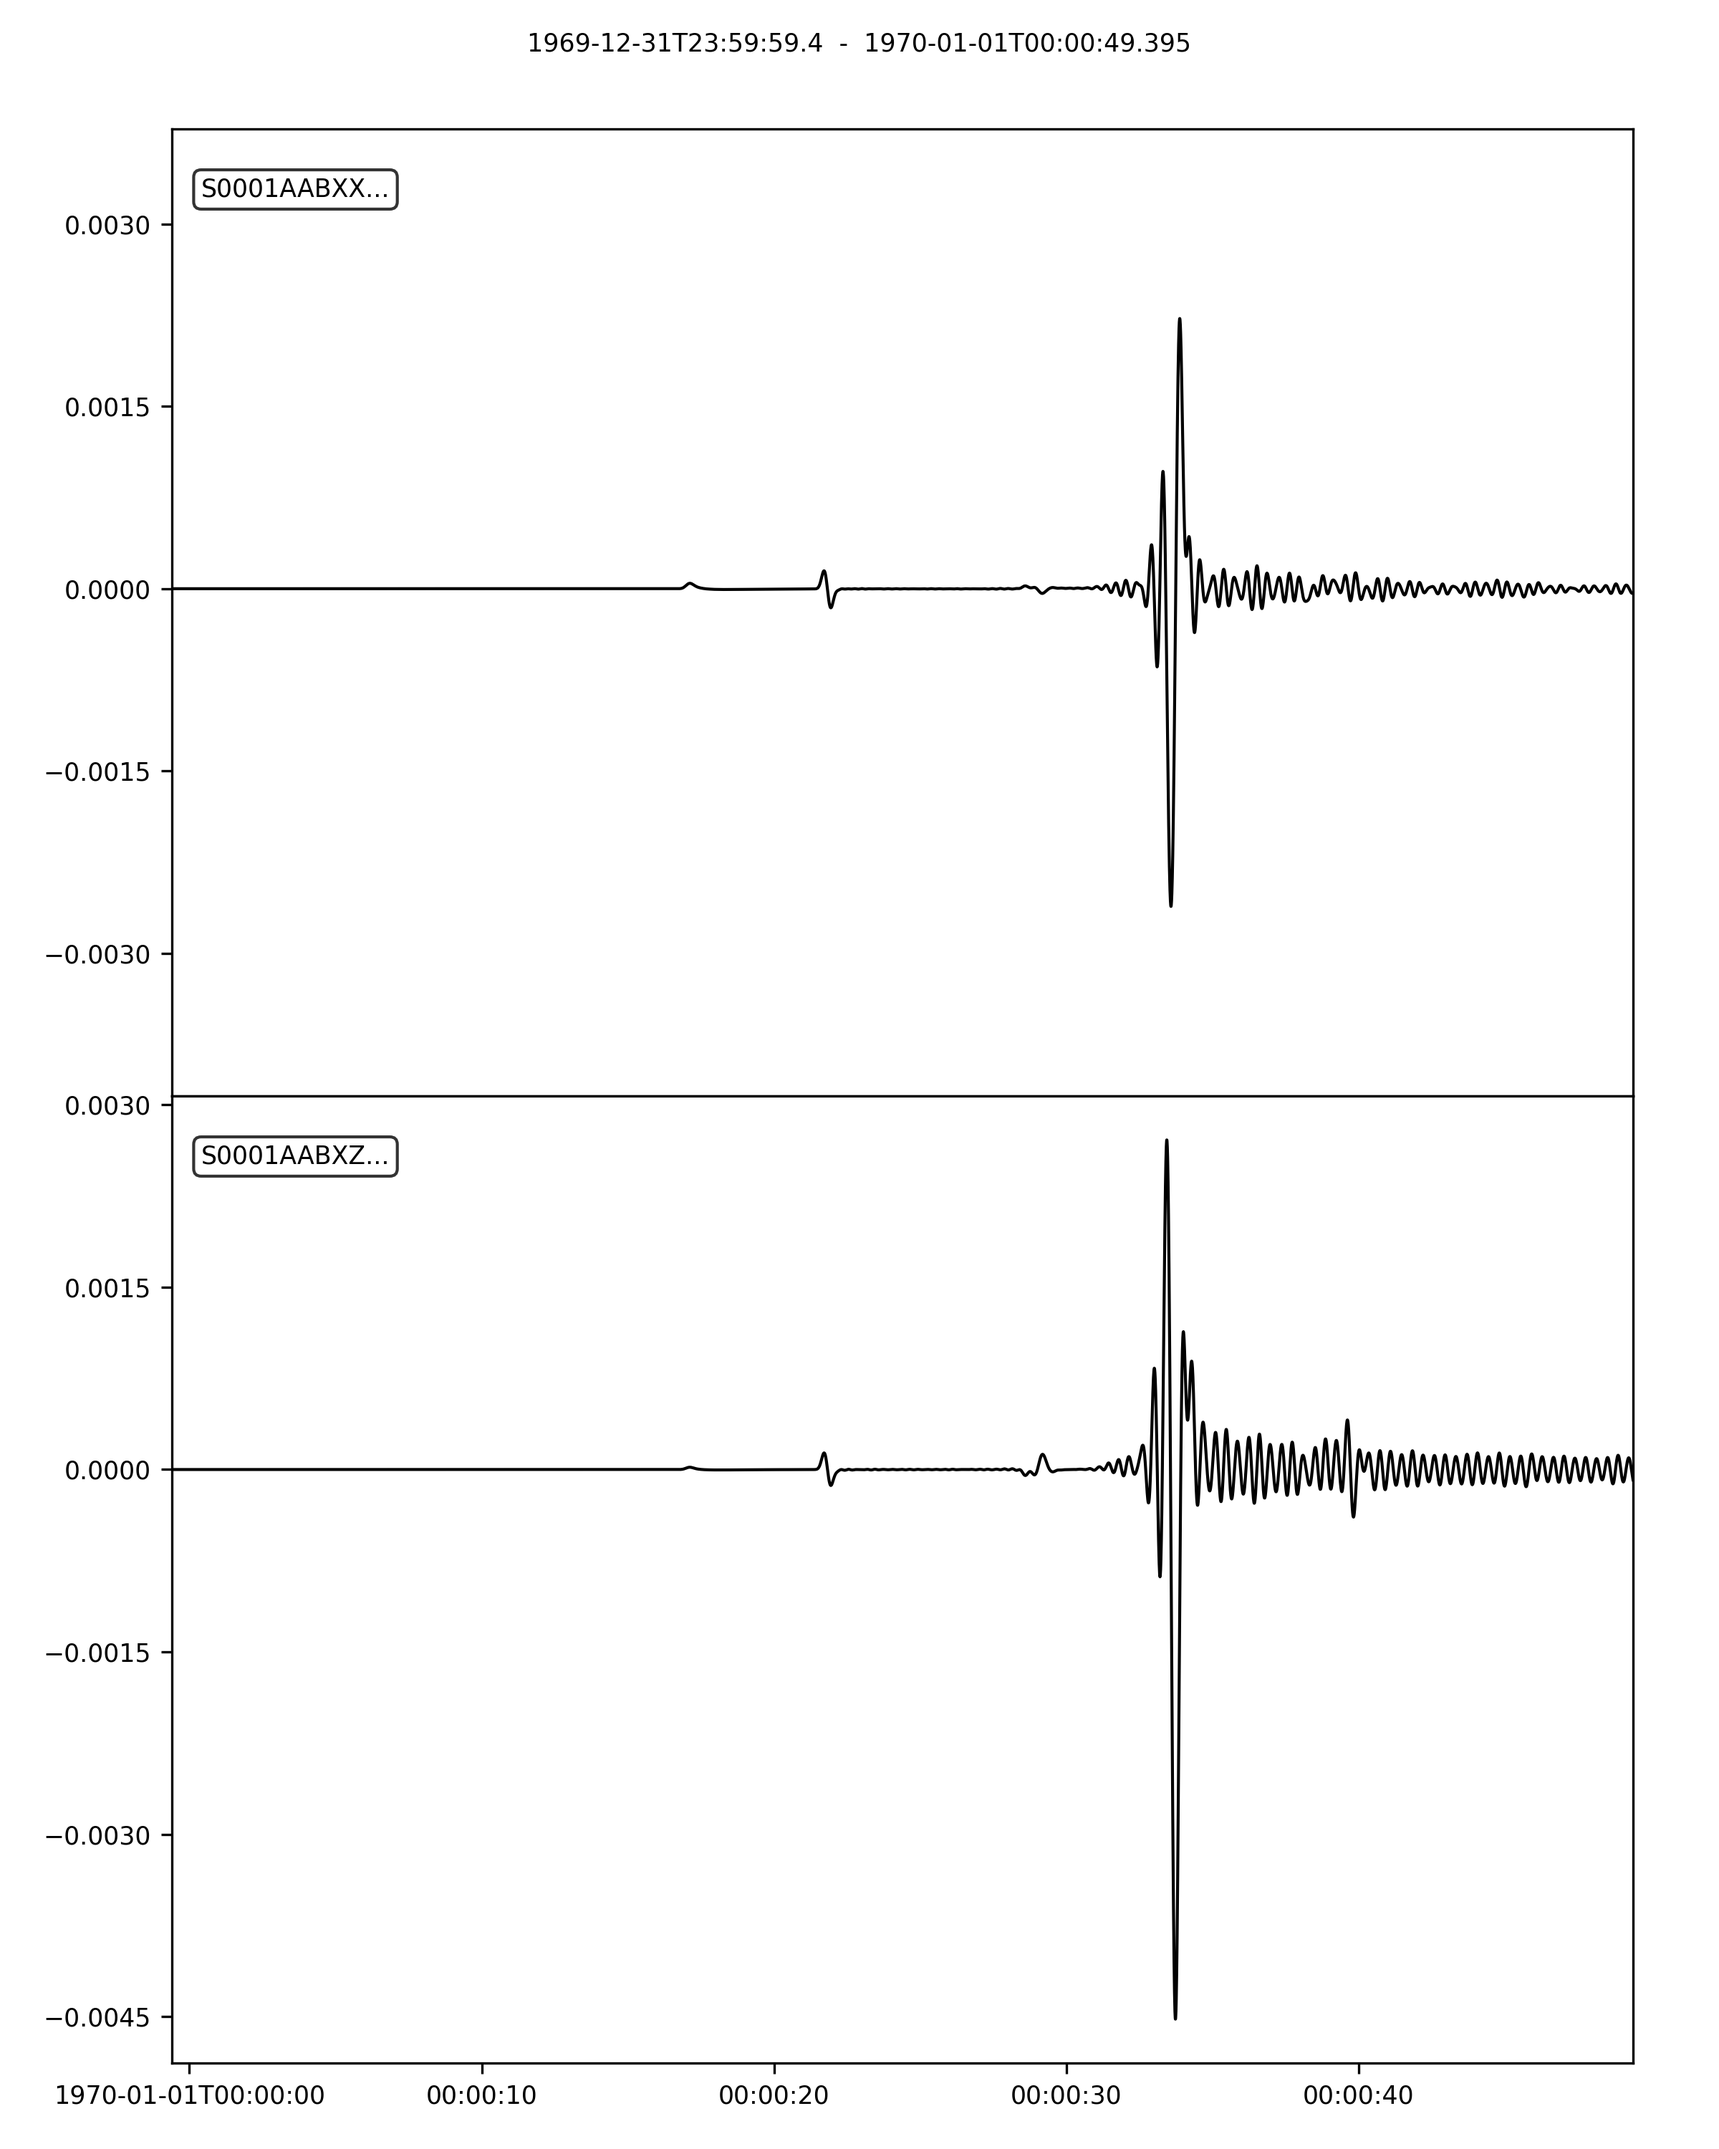
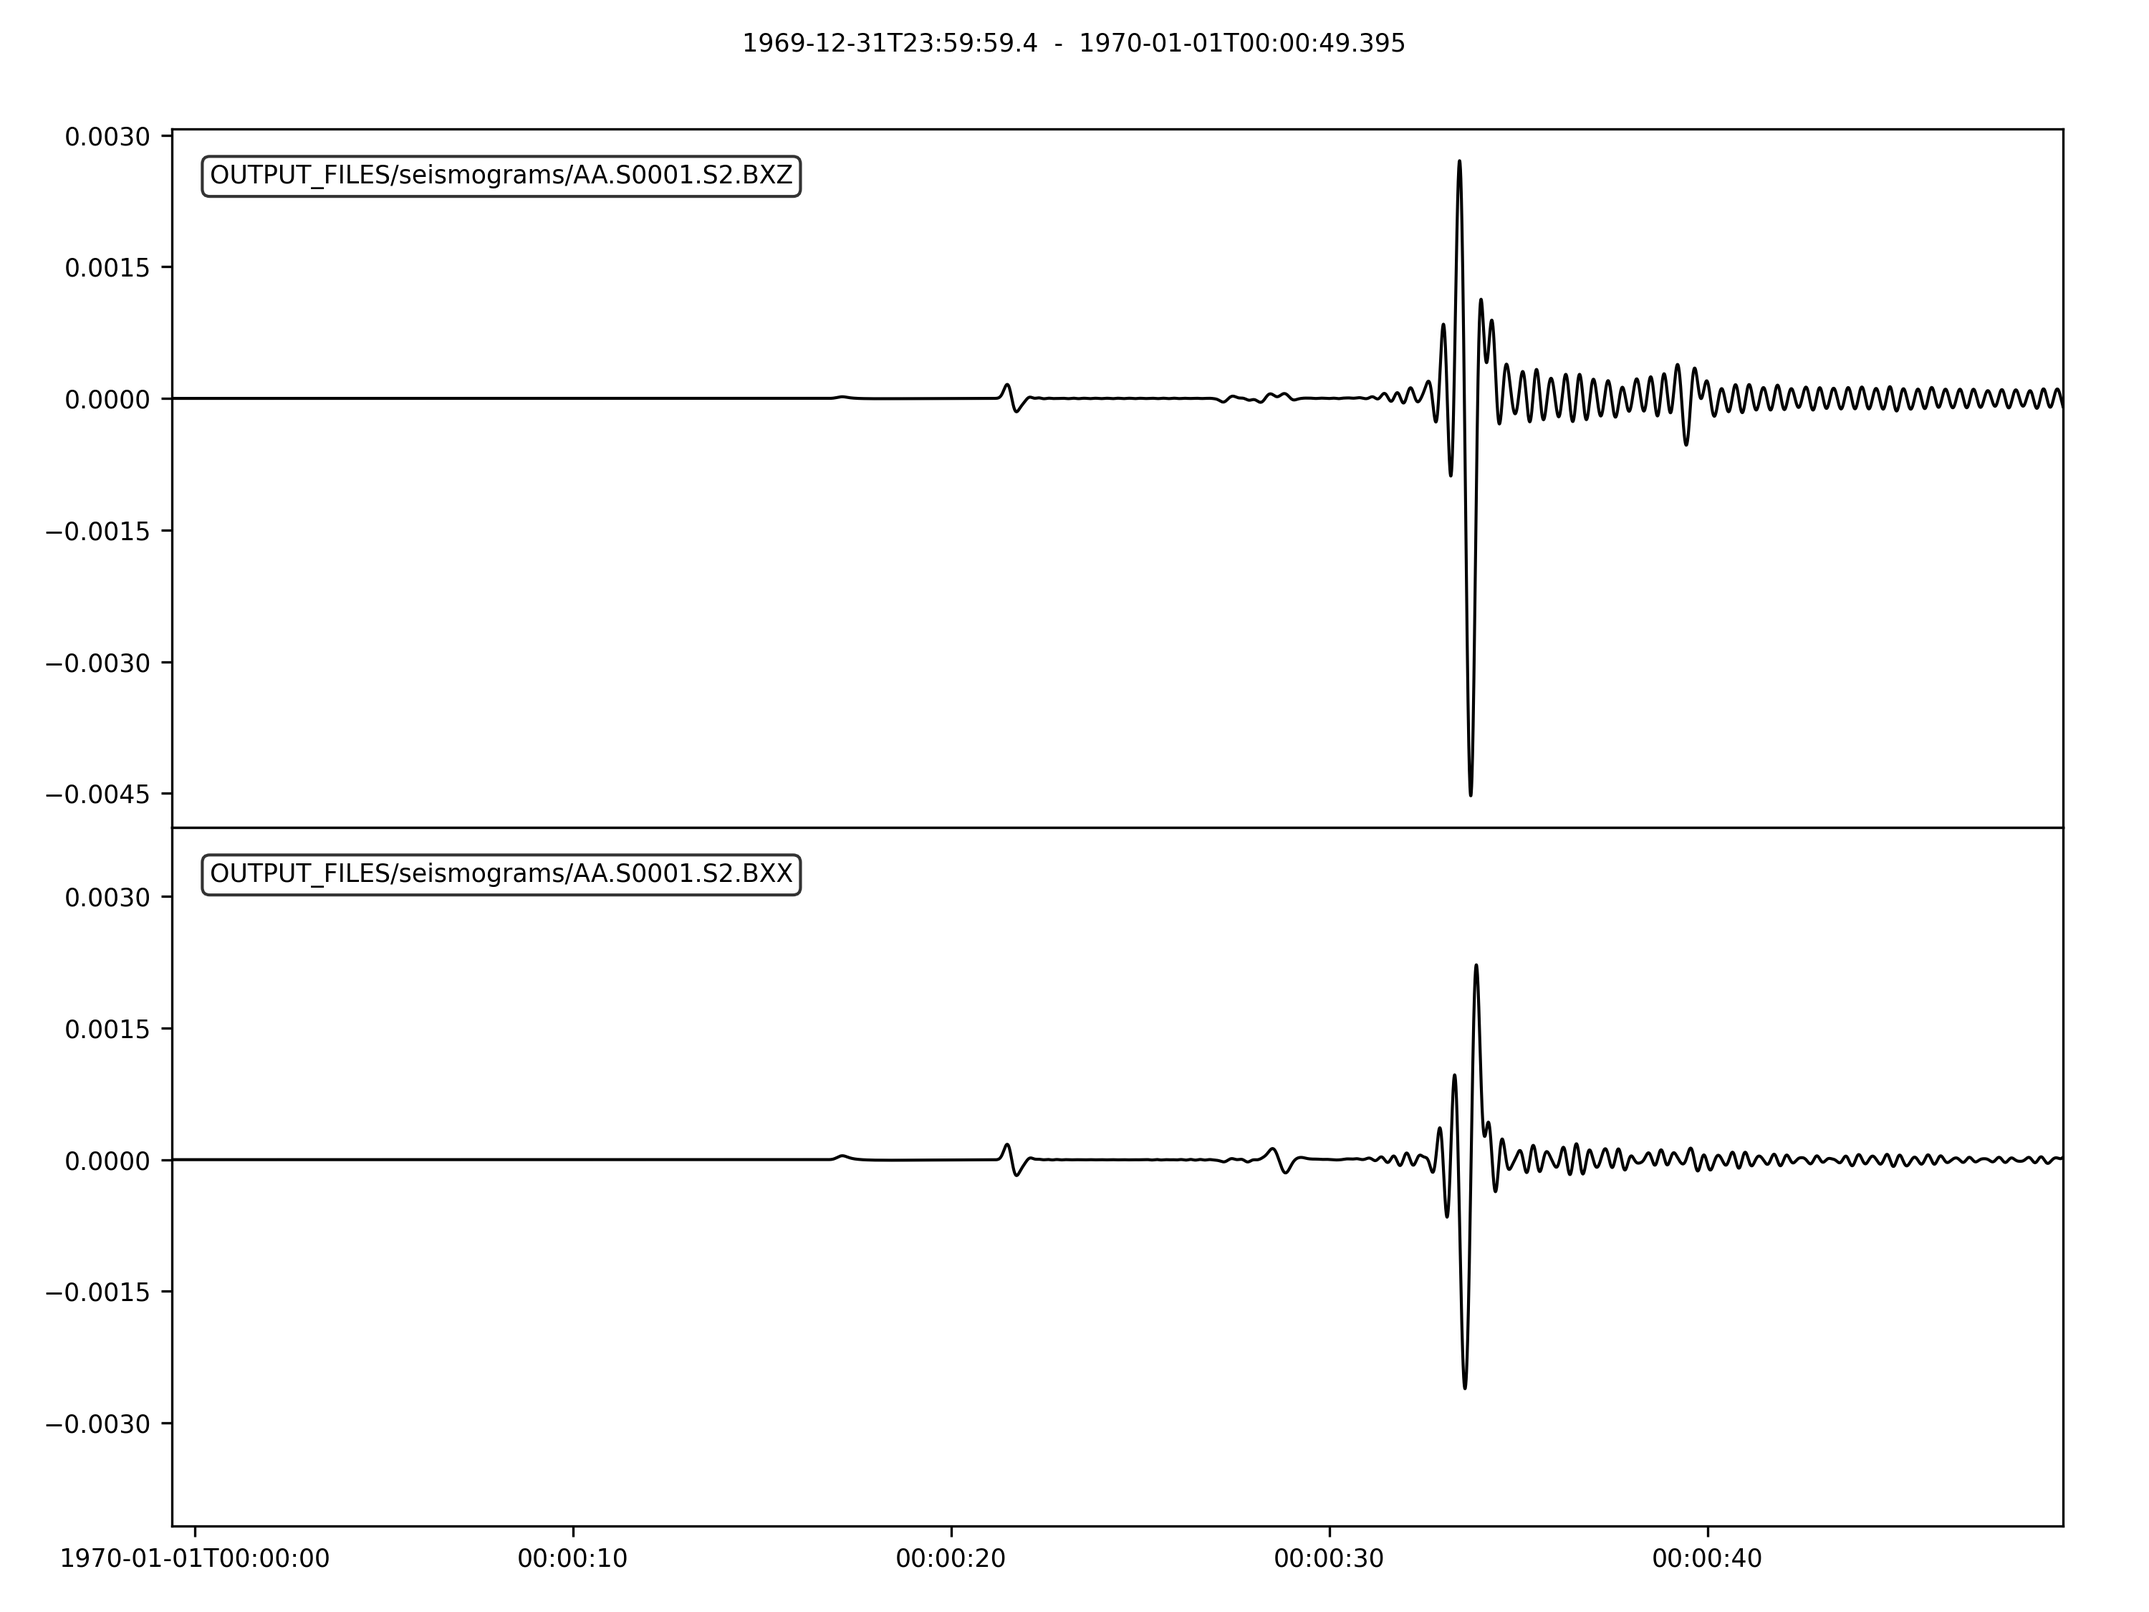
Fixed the solid-solid example

diff --git a/docs/cookbooks/dim2/solid-solid-interface/plot.py b/docs/cookbooks/dim2/solid-solid-interface/plot.py
@@ -15,14 +15,21 @@ def get_traces(directory):
     ## iterate over all seismograms
     for filename in files:
         station_name = os.path.splitext(filename)[0]
-        station_name = station_name.split("/")[-1]
+        network, station, location, channel = station_name.split(".")[:4]
         trace = np.loadtxt(filename, delimiter=" ")
         starttime = trace[0, 0]
         dt = trace[1, 0] - trace[0, 0]
         traces.append(
             obspy.Trace(
                 trace[:, 1],
-                {"network": station_name, "starttime": starttime, "delta": dt},
+                {
+                    "network": network,
+                    "station": station,
+                    "location": location,
+                    "channel": channel,
+                    "starttime": starttime,
+                    "delta": dt,
+                },
             )
         )
 
@@ -31,5 +38,5 @@ def get_traces(directory):
     return stream
 
 
-stream = get_traces("OUTPUT_FILES/results")
-stream.plot(size=(800, 1000)).savefig("OUTPUT_FILES/seismograms.png", dpi=300)
+stream = get_traces("OUTPUT_FILES/seismograms")
+stream.plot(size=(1000, 750)).savefig("OUTPUT_FILES/seismograms.png", dpi=300)

diff --git a/docs/cookbooks/dim2/solid-solid-interface/index.rst b/docs/cookbooks/dim2/solid-solid-interface/index.rst
@@ -225,6 +225,10 @@ below.
 
     Snapshot of the wavefield at timestep 2000 (:math:`t=10\mathrm{s}`).
 
+.. note::
+
+    The wavefield snapshots are currently not being generated with this setup.
+
 The first (P) wavefront in the upper half of the medium reaches the horizontal
 center of model after 9 seconds, which is intuitive since the P-wave velocity
 in the upper half of the model is almost :math:`6\mathrm{km}/\mathrm{s}`.
